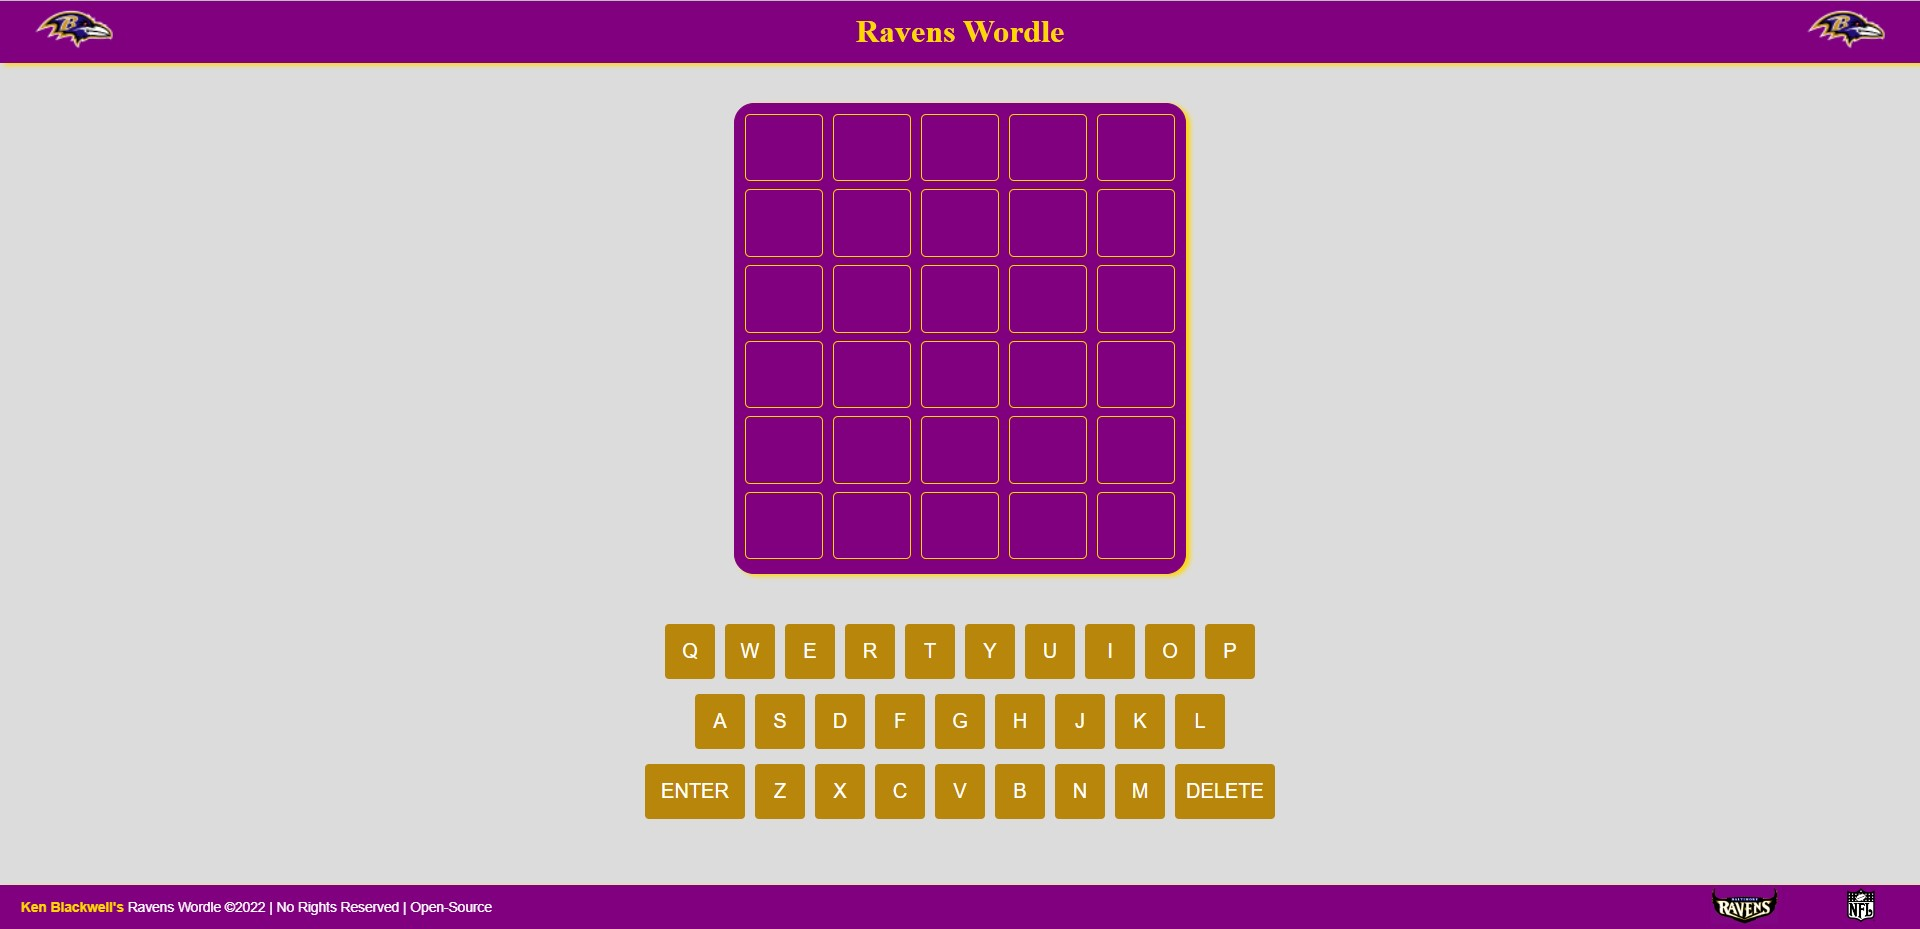
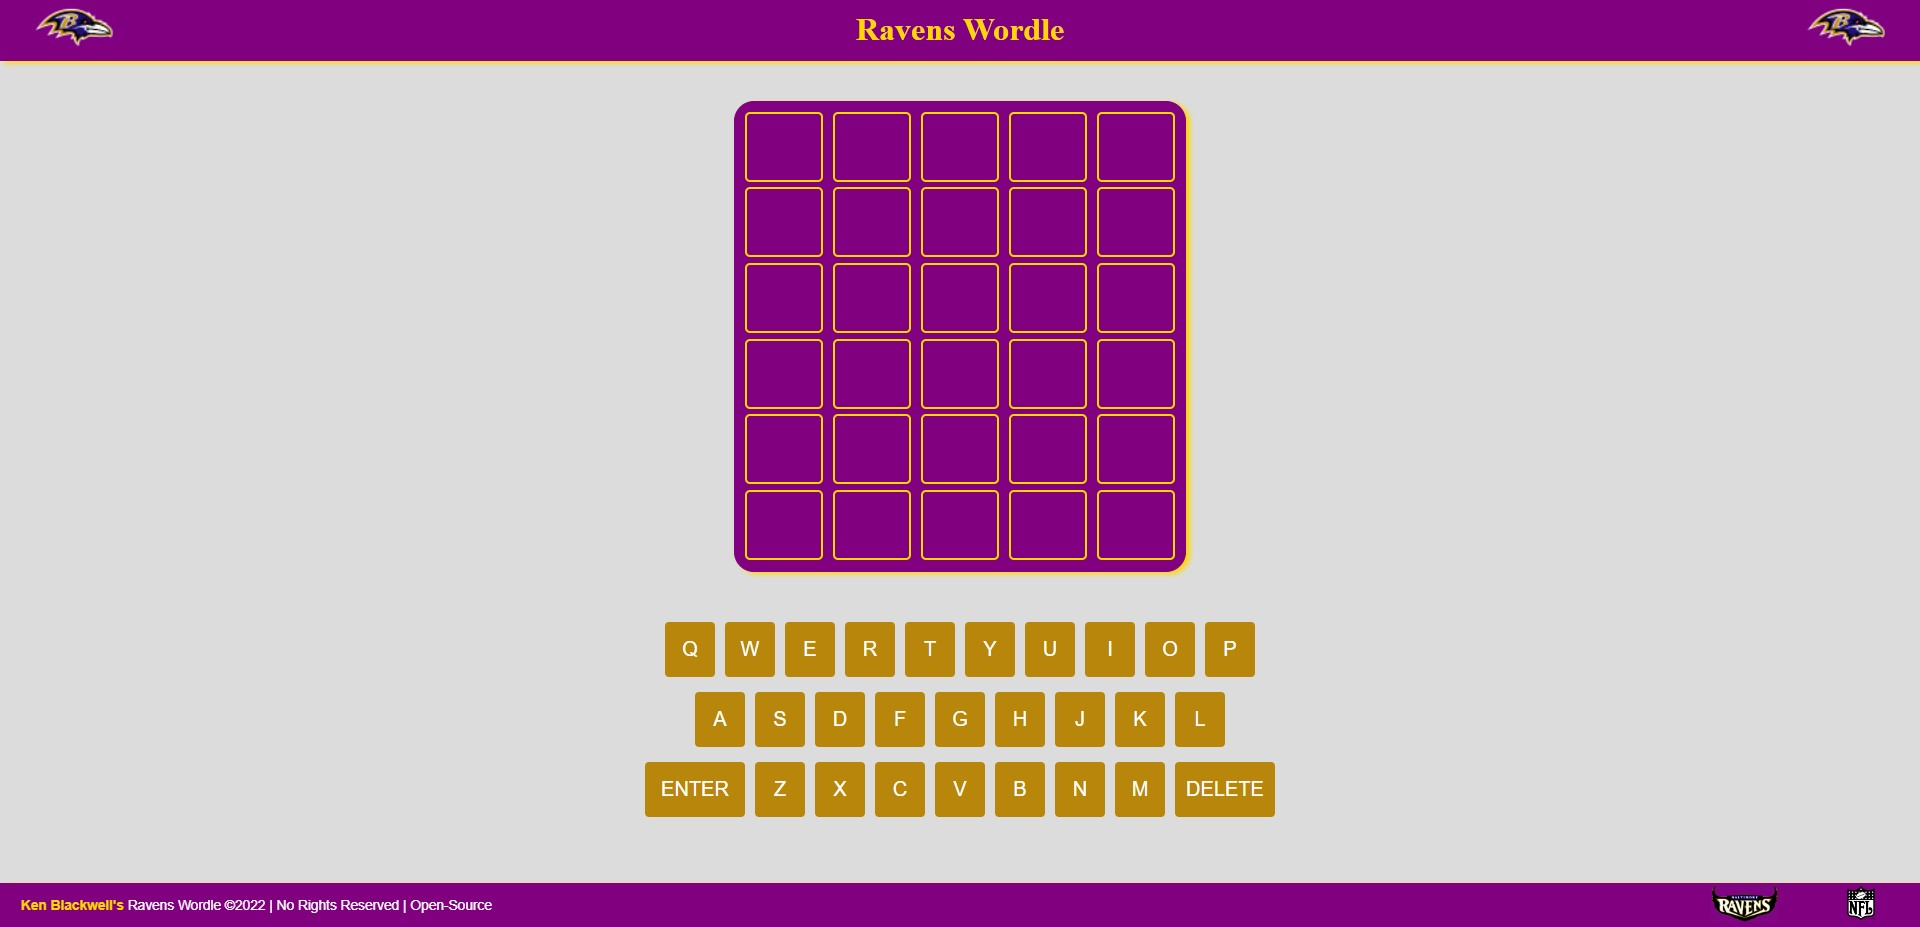
Made minor styling updates

Changed region(s): [[0.0, 0.0, 1.0, 0.6343]]

diff --git a/src/components/LetterValue/LetterValue.css b/src/components/LetterValue/LetterValue.css
@@ -1,7 +1,7 @@
 .letter-val {
     flex: 33%;
     height: 100%;
-    border: 1px solid gold;
+    border: 2.2px solid gold;
     border-radius: 5px;
     margin: 5px;
     display: grid;

diff --git a/src/components/NavBar/NavBar.css b/src/components/NavBar/NavBar.css
@@ -20,3 +20,6 @@
     padding-right: 2rem;
 }
 
+.header-wordle{
+    font-weight: bold;
+}
